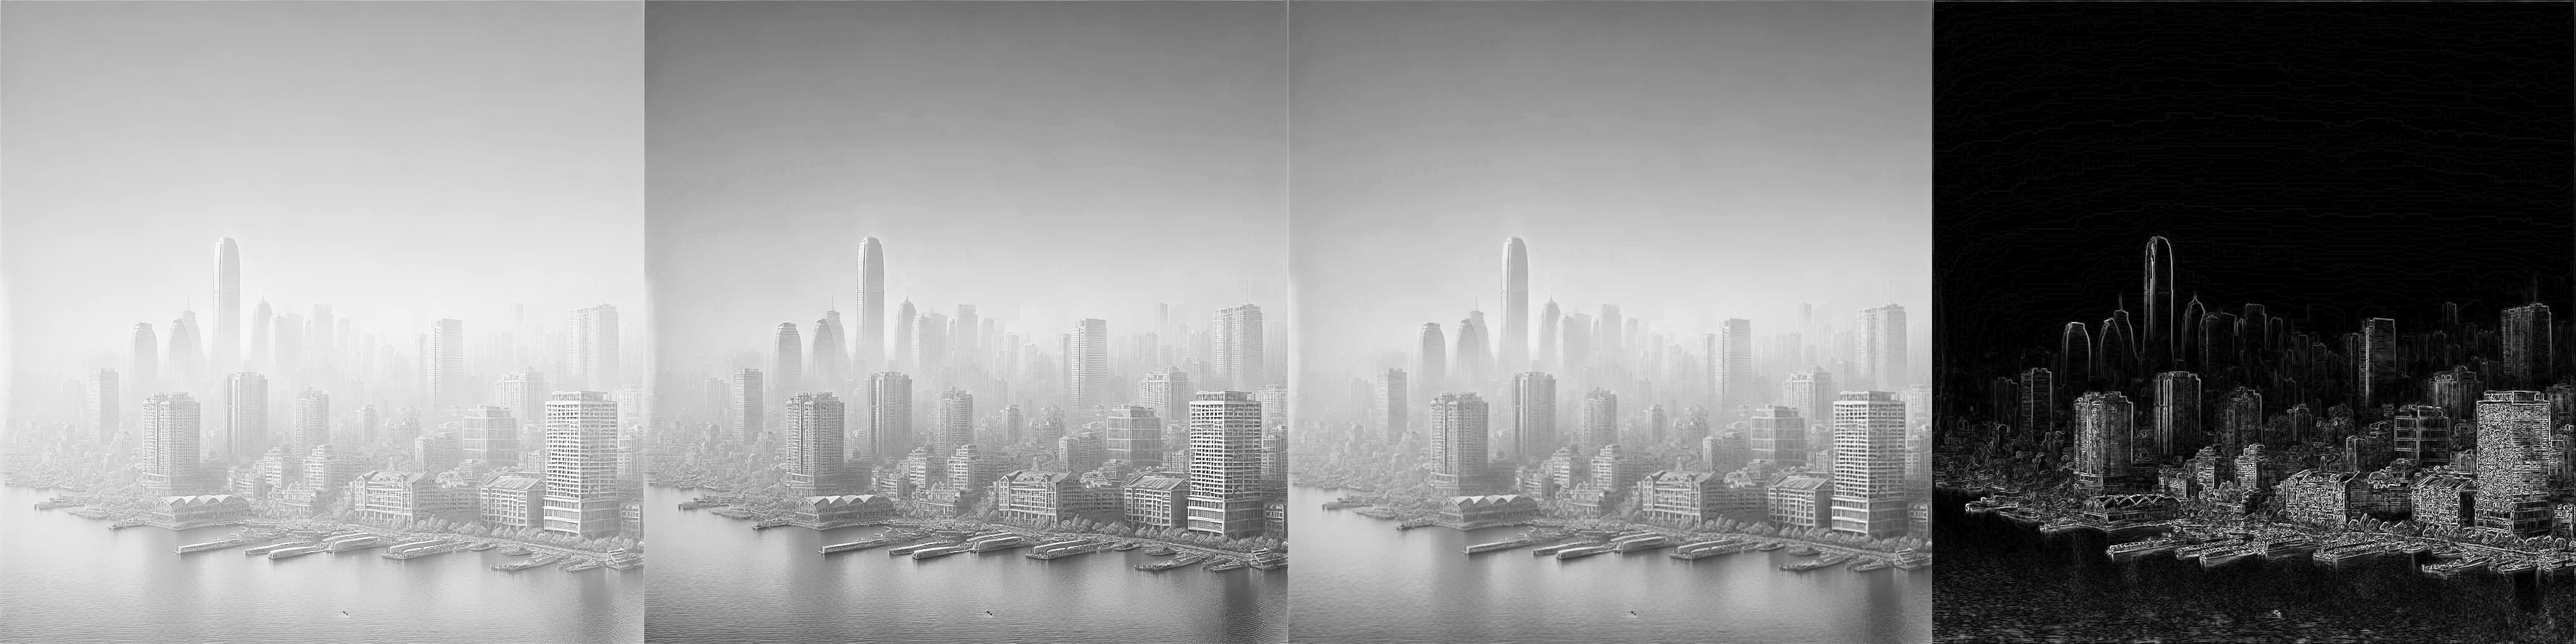
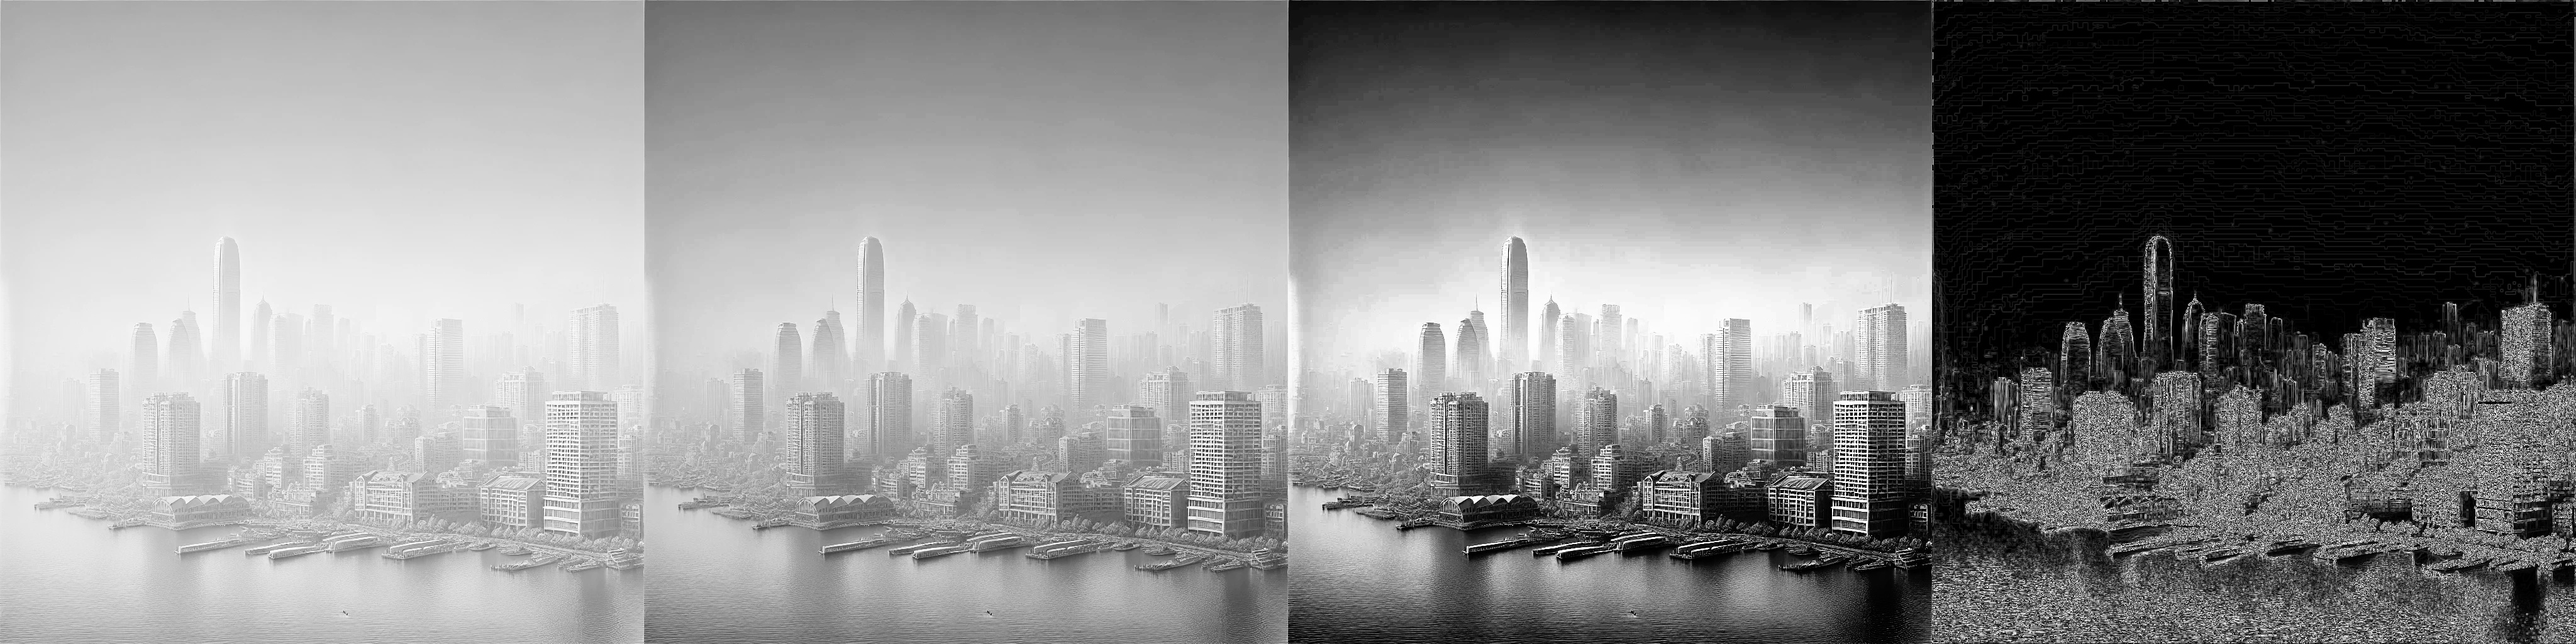
3401 fix after presentation

Changed region(s): [[0.5, 0.375, 1.0, 1.0], [0.5, 0.0, 0.75, 0.375]]

diff --git a/3401/assignment 1/6601001123_assignment1_1.py b/3401/assignment 1/6601001123_assignment1_1.py
@@ -1,37 +1,16 @@
 import cv2
 import numpy as np
-from image_process import powerGamma,calculate_hist
+from image_process import powerGamma,calculate_hist,image_show
 
 img = cv2.imread('pic1.png', 1)
-print(img.shape) # (400, 600, 3)
-# หาก img.shape เป็น numpy array 2 มิติ จะเป็นภาพ Grayscale
-# หาก img.shape เป็น numpy array 3 มิติ จะเป็นภาพสี
+cv2.imwrite("./assignment1_1/original_img.jpg",img)
 
-B , G , R = cv2.split(img)
-# ใช้ method cv2.split(img) จะ return เป็น B G R channels
+row , col , channel = img.shape
+a = [0.114 , 0.587 , 0.299]
+color_img = np.zeros_like(img,dtype='uint8')
+for space in range(channel) :
+    color_img[:,:,space] = powerGamma(img[:,:,space],0.4)
 
-new_img = np.zeros_like(B)
-# ใช้ method np.zeros_like(..) เพื่อ clone Structure ของ argument ที่เราใส่เข้าไป
-# กรณีนี้ใส่ B หรือ G หรือ R เข้าไป ก็จะเป็นการโคลน structure (height,width) เนื่องจาก B/G/R จะเป็น 1 channel
-
-for i in range(img.shape[0]) :
-    for j in range(img.shape[1]) :
-        new_img[i,j] = int((0.299 * R[i,j]) + (0.587 * G[i,j]) + (0.114 *B[i,j]))
-        # เข้าถึง B/G/R ในแต่ละช่องจุดภาพ แล้วคูณด้วย const แล้วนำมาพวกกันเพื่อแปลงเป็นภาพขาวดำ
-        
-calculate_hist(new_img,"assignment1_1","hist_after_grayscaling.jpg")
-
-print(f"min : {np.min(new_img)} , max : {np.max(new_img)}")
-# min : 0 , max : 80
-# max มีเพียง 80 แสดงว่าภาพมืด ฉะนั้นต้องนำไปขยาย scale
-
-new_img_poweredGamma = powerGamma(new_img,0.25)
-print(f"min : {np.min(new_img_poweredGamma)} , max : {np.max(new_img_poweredGamma)}")
-# min : 0 , max : 255
-
-calculate_hist(new_img_poweredGamma,"assignment1_1","hist_after_powergamma.jpg")
-
-concatImg = cv2.hconcat([new_img,new_img_poweredGamma])
-cv2.imwrite("assignment1_1/assignment1_1.jpg",concatImg)
-cv2.imwrite("./assignment1_1/loaded_picture.jpg",img)
-# แปลงข้อมูลเป็น float >> Normalize >> ยกกำลังด้วย gamma (ยิ่งน้อย ยิ่งสว่าง) >> คูณด้วย 255 แล้วแปลงกลับเป็น uint8
+cv2.imwrite("./assignment1_1/color_after_powergamma.jpg",color_img)
+hconcat_img = cv2.hconcat([img,color_img])
+cv2.imwrite("./assignment1_1/final.jpg",hconcat_img)

diff --git a/3401/assignment 1/6601001123_assignment1_3.py b/3401/assignment 1/6601001123_assignment1_3.py
@@ -1,34 +1,17 @@
 import cv2
 import numpy as np
-from image_process import calculate_hist , sobel , powerGamma
+from image_process import calculate_hist , sobel , powerGamma ,equalization
 
-# Import image into programme
 img = cv2.imread('./pic3.png',0)
-print(f"min : {np.min(img)} , max : {np.max(img)}")
-# Output >>  min : 43 , max : 255
-# Can normalizing the image
 
-hist = calculate_hist(img,"assignment1_3","hist_before_powergamma.jpg")
-# Investigate histogram 
-# พบว่า ความถี่กระจุกตัวอยู่ในช่วงความเข้ม 170 - 240
-# จึงสามารถใช้การ Power Gamma เพื่อกระจายการกระจุกตัวได้
+calculate_hist(img,"assignment1_3","hist_before_powergamma.jpg")
+powergamma_img = powerGamma(img,2)
 
-# ปรับฐานความเข้มของรูปภาพ ให้อยู่ที่ 0
-# Normalize and Power Gamma
-new_img = powerGamma(img,2)
+calculate_hist(powergamma_img,"assignment1_3","hist_after_powergamma.jpg")
 
+equalized_img = equalization(powergamma_img)
+calculate_hist(equalized_img,"assignment1_3","hist_after_equalization.jpg")
+edge_detected_img = sobel(equalized_img)
 
-print(f"min : {np.min(new_img)} , max : {np.max(new_img)}")
-# Output : min : 0 , max : 255
-
-hist = calculate_hist(new_img,"assignment1_3","hist_after_powergamma.jpg")
-# Investigate histogram after Normalize and PowerGamma
-# พบว่า ความถี่กระจายตัวอย่างสม่ำเสมอแล้ว
-
-# blurred_img = new_img
-blurred_img = cv2.GaussianBlur(new_img, (3, 3), 0)
-edge_detected_img = sobel(blurred_img)
-# ดำเนินการ prewitt (Edge Detection)
-
-concat_img = cv2.hconcat([img,new_img,blurred_img,edge_detected_img])
+concat_img = cv2.hconcat([img,powergamma_img,equalized_img,edge_detected_img])
 cv2.imwrite('./assignment1_3/assignment1_3.jpg',concat_img)

diff --git a/3401/assignment 1/6601001123_assignment1_2.py b/3401/assignment 1/6601001123_assignment1_2.py
@@ -1,25 +1,19 @@
 import cv2
 import numpy as np
-from image_process import image_show , calculate_hist , powerGamma
+from image_process import image_show, calculate_hist , equalization , powerGamma
 
-img = cv2.imread('./pic2.png',0)
-print(f"img min : {np.min(img)} , img max : {np.max(img)}")
+img = cv2.imread('pic2.png', 0)
+cv2.imwrite("./assignment1_2/original_img.jpg",img)
+
 image_show(img)
+calculate_hist(img)
 
-# Output >> img min : 76 , img max : 218
-# ทราบได้ว่า ความเข้มของภาพ ค่อนข้างสว่าง เนื้อจากจุดภาพที่มีความเข้มที่ต่ำที่สุด มีความเข้มถึง 76 ส่งผลให้ภาพสว่างเกินไป
-# ต้องปรับภาพให้กระจายตัวเต็ม Scale 0-255 เพื่อให้ภาพมีมิติมากยิ่งขึ้น
+equalized_img = equalization(img)
 
-hist = calculate_hist(img,"assignment1_2","hist_before_powergamma.jpg")
-# Output สังเกตได้ว่า
+image_show(equalized_img)
+calculate_hist(equalized_img)
 
-img_new = powerGamma(img,2.2)
+cv2.imwrite("./assignment1_2/equalized_img.jpg",equalized_img)
+hconcat_img = cv2.hconcat([img,equalized_img])
 
-print(f"img_new min : {np.min(img_new)} , img_new max : {np.max(img_new)}")
-# img_new min : 0 , img_new max : 255
-image_show(img_new)
-
-hist = calculate_hist(img_new,"assignment1_2","hist_after_powergamma.jpg")
-
-concatImg = cv2.hconcat([img,img_new])
-cv2.imwrite('./assignment1_2/assignment1_2.jpg',concatImg)
+cv2.imwrite("./assignment1_2/final.jpg",hconcat_img)

diff --git a/3401/assignment 1/image_process.py b/3401/assignment 1/image_process.py
@@ -26,3 +26,10 @@ def sobel(img) :
     gy = cv2.Sobel(img, cv2.CV_64F, 0, 1, ksize=3)  
     out = np.sqrt(gx**2 + gy**2)
     return out.astype(np.uint8)
+
+def equalization(img):
+    cdf = cv2.calcHist([img],[0],None,[256],[0,256]).flatten().cumsum()
+    cdf_m = np.ma.masked_equal(cdf, 0) 
+    cdf_m = ((cdf_m - cdf_m.min())  / (cdf_m.max() - cdf_m.min()))*255
+    cdf = np.ma.filled(cdf_m, 0).astype('uint8')
+    return cdf[img]
